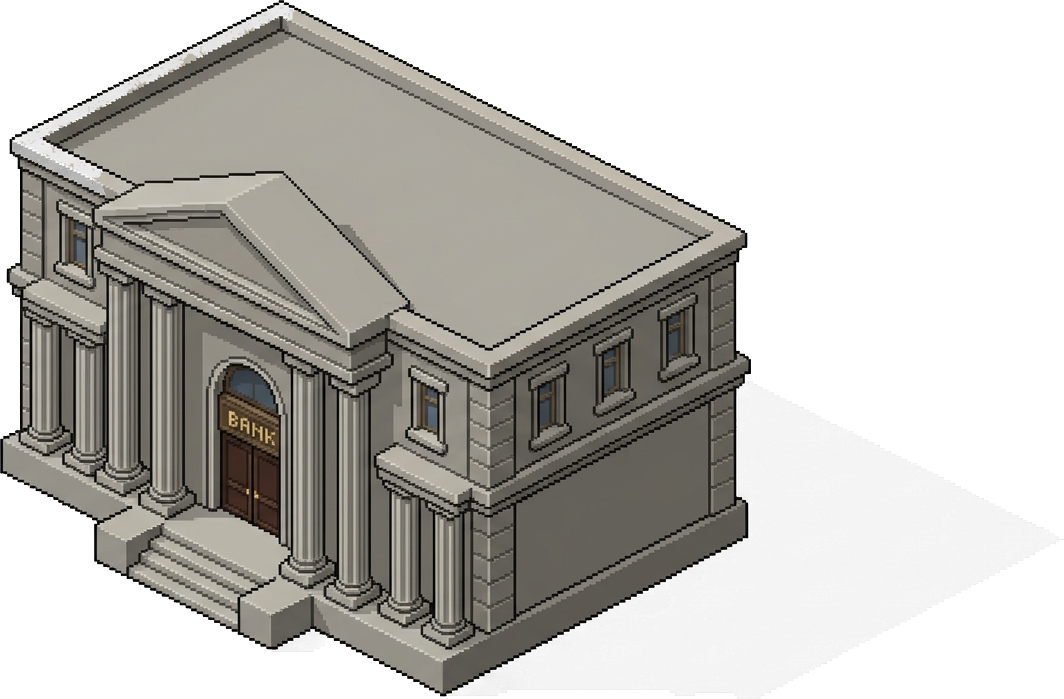
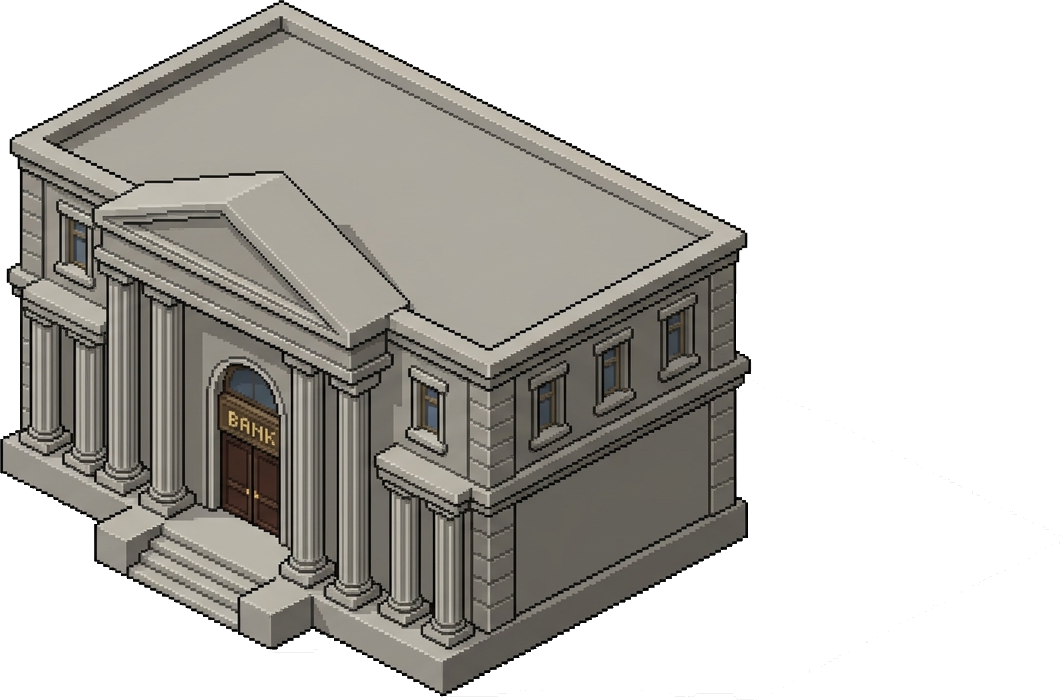
Bank-Dach fix + Arbeitsamt +45%
- Bank: colorkey statt neutral -> keine schwarzen Flecken im hellen
  Dach mehr; zusaetzlich Schlagschatten abgeschaelt (kein grauer Keil)
- tools/freistellen.py: deshadow-Schritt fest eingebaut (5. Arg)
- script.js: Arbeitsamt breite 1.95 -> 2.83 (fuellt ganzen Block)

https://claude.ai/code/session_013HJSBZ8F1qv1i9bfF7Wrnj

diff --git a/script.js b/script.js
@@ -3902,7 +3902,7 @@ function zeichneStrassendeko(g, tileW, tileH, offsetX, offsetY) {
 // ================================================================
 const BUILDING_SPRITES = {
   bank:       { file: 'assets/buildings/bank.png',           breite: 2.28, ankerY: 0.86, dy: 0.10 },
-  arbeitsamt: { file: 'assets/buildings/arbeitsamt.png',     breite: 1.95, ankerY: 0.92, dy: 0.18 },
+  arbeitsamt: { file: 'assets/buildings/arbeitsamt.png',     breite: 2.83, ankerY: 0.92, dy: 0.18 },
   baustelle:  { file: 'assets/buildings/baustelle.png',      breite: 3.42, ankerY: 0.86, dy: 0.10 },
   pawn:       { file: 'assets/buildings/pfandleiher.png',    breite: 1.31, ankerY: 0.86, dy: 0.10 },
   amuesier:   { file: 'assets/buildings/amuesierbetrieb.png', breite: 1.75, ankerY: 0.86, dy: 0.10 },

diff --git a/tools/freistellen.py b/tools/freistellen.py
@@ -101,6 +101,51 @@ def freistellen(src, dst, mode="neutral",
     print(f"OK [{mode:8s}] {src.split('/')[-1]:22s} -> {img.size[0]}x{img.size[1]}")
 
 
+def deshadow(path, top_guard=0.42, sat=18, lo=150, hi=225):
+    """Entfernt einen grauen Schlagschatten, der nach 'colorkey' bei hellen
+    Gebaeuden (z.B. Bank) uebrig bleibt. Schaelt den Schatten NUR von unten
+    her ab (obere top_guard% = Dach bleiben tabu), damit helle Daecher
+    unangetastet bleiben."""
+    img = Image.open(path).convert("RGBA")
+    w, h = img.size
+    px = img.load()
+    guard = int(h * top_guard)
+
+    def shadowish(r, g, b):
+        mx, mn = max(r, g, b), min(r, g, b)
+        return (mx - mn) <= sat and lo <= mx <= hi
+
+    seen = bytearray(w * h)
+    dq = deque()
+    for y in range(guard, h):
+        for x in (0, w - 1):
+            if px[x, y][3] == 0 and not seen[y*w+x]:
+                seen[y*w+x] = 1; dq.append((x, y))
+    for x in range(w):
+        if px[x, h-1][3] == 0 and not seen[(h-1)*w+x]:
+            seen[(h-1)*w+x] = 1; dq.append((x, h-1))
+
+    while dq:
+        x, y = dq.popleft()
+        for dx, dy in ((1,0),(-1,0),(0,1),(0,-1)):
+            nx, ny = x+dx, y+dy
+            if 0 <= nx < w and guard <= ny < h and not seen[ny*w+nx]:
+                r, g, b, a = px[nx, ny]
+                if a == 0:
+                    seen[ny*w+nx] = 1; dq.append((nx, ny))
+                elif shadowish(r, g, b):
+                    seen[ny*w+nx] = 1; px[nx, ny] = (r, g, b, 0); dq.append((nx, ny))
+
+    bbox = img.getbbox()
+    if bbox:
+        img = img.crop(bbox)
+    img.save(path)
+    print(f"   deshadow {path.split('/')[-1]} -> {img.size[0]}x{img.size[1]}")
+
+
 if __name__ == "__main__":
     mode = sys.argv[3] if len(sys.argv) > 3 else "neutral"
     freistellen(sys.argv[1], sys.argv[2], mode=mode)
+    # 5. Argument 'deshadow' -> Schlagschatten zusaetzlich abschaelen
+    if len(sys.argv) > 4 and sys.argv[4] == "deshadow":
+        deshadow(sys.argv[2])
